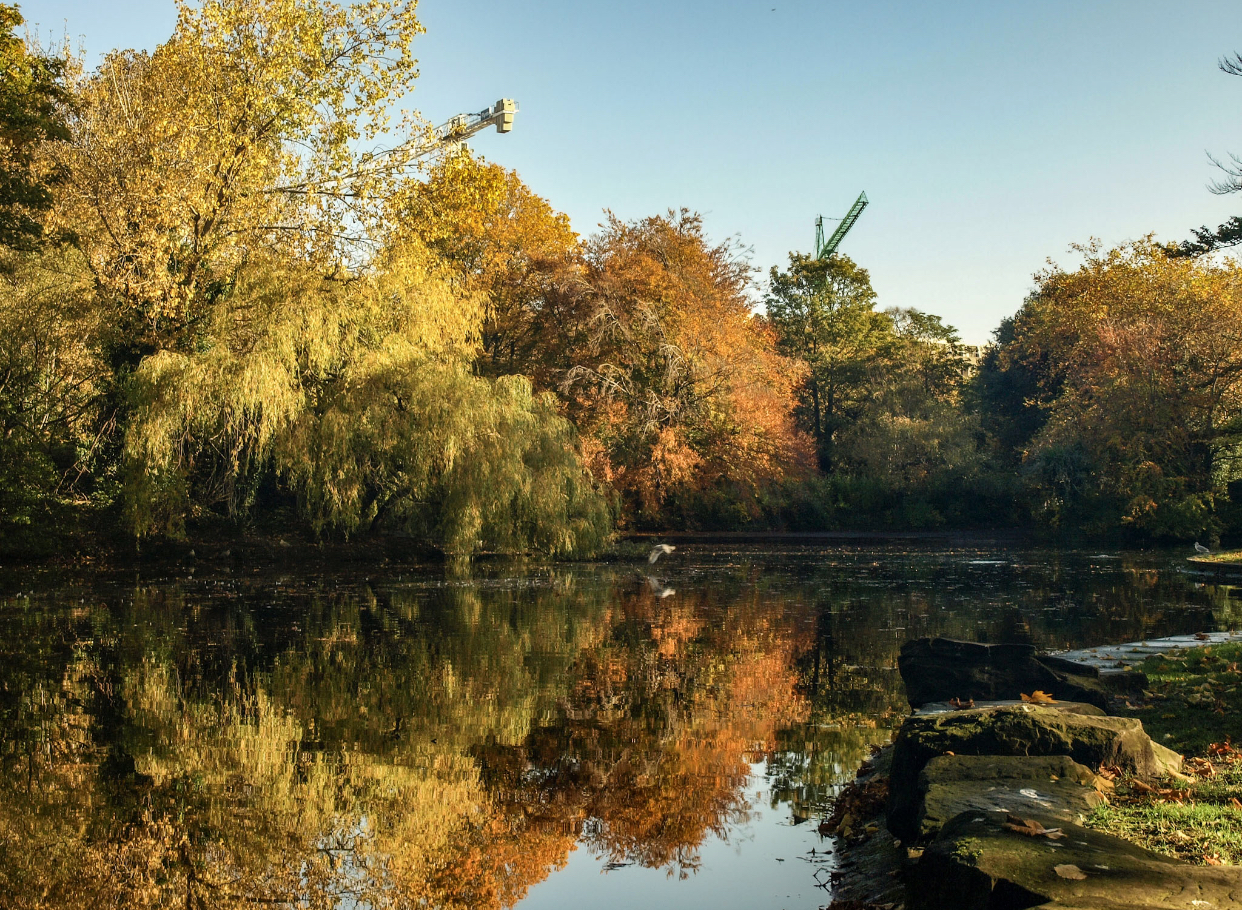
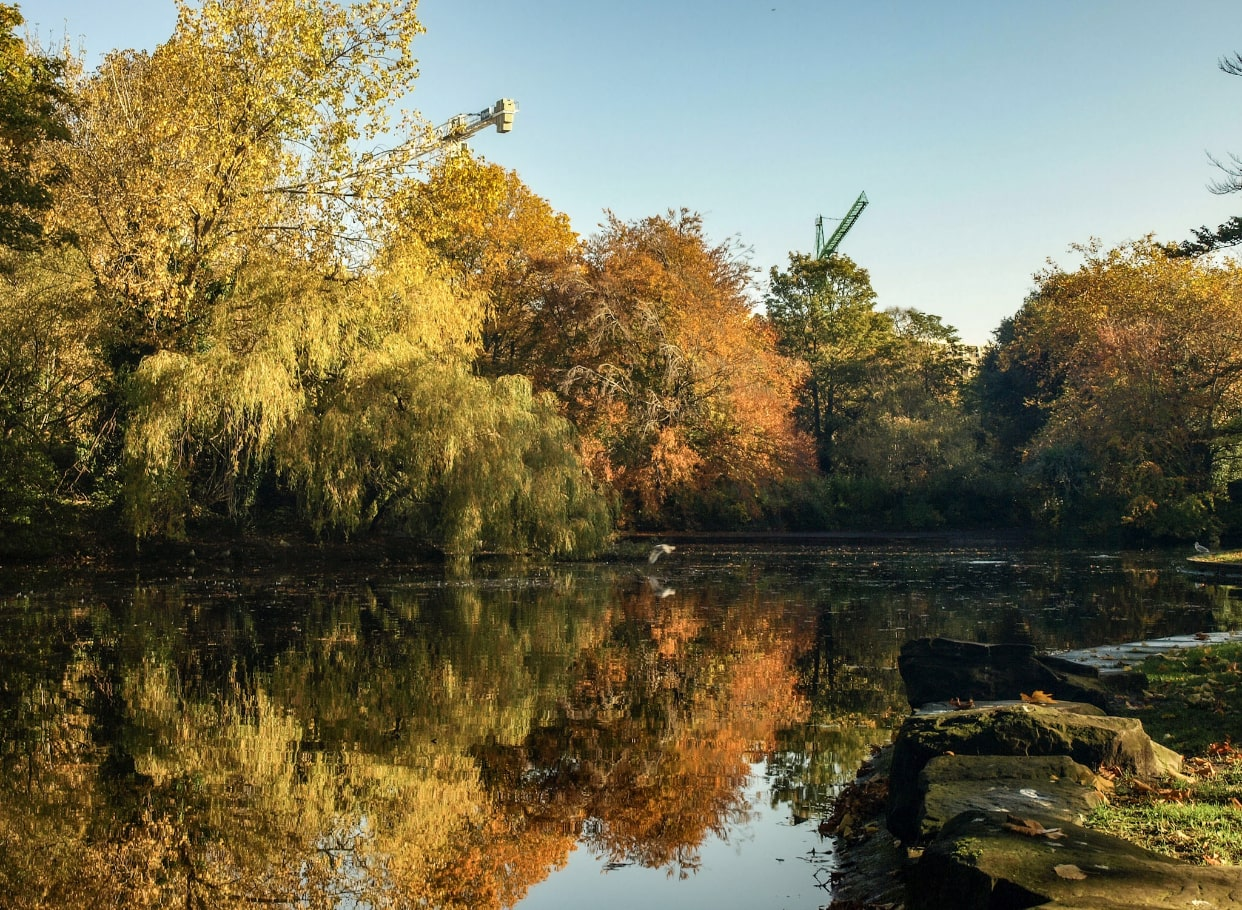
Compressed all images and re-uploaded into site

diff --git a/photography.html b/photography.html
@@ -45,35 +45,35 @@
     <section id="black1">
         <div class="row1">
             <div class="column1">
-              <img src="assets/css/images/photos/B&W-mountain-top-min (1).jpeg" alt="B&W moutain top">
-              <img src="assets/css/images/photos/Department-of-the-taoiseach.JPG" alt="Department of the taoiseach building">
+              <img src="assets/css/images/photos/B&W-mountain-top.jpg" alt="B&W moutain top">
+              <img src="assets/css/images/photos/Department-of-the-taoiseach.jpg" alt="Department of the taoiseach building">
               <img src="assets/css/images/photos/letterfrank.jpg" alt="Beautiful sky in letterfrank">
-              <img src="assets/css/images/photos/St.marys.JPG" alt="St.marys">
+              <img src="assets/css/images/photos/St.marys.jpg" alt="St.marys">
               <img src="assets/css/images/photos/Park-color.jpg" alt="Autmun days in the park">
-              <img src="assets/css/images/photos/water-front-view.JPG" alt="water-front-view">
+              <img src="assets/css/images/photos/water-front-view.jpg" alt="water-front-view">
             </div>
             <div class="column1">
               <img src="assets/css/images/photos/Hanover-Quay.jpg" alt="Hanover-Quay">
-              <img src="assets/css/images/photos/Heineken-2.JPG" alt="heinken bottle">
+              <img src="assets/css/images/photos/Heineken-2.jpg" alt="heinken bottle">
               <img src="assets/css/images/photos/alliance-building.jpg" alt="alliance-building">
-              <img src="assets/css/images/photos/Industrial-3.JPG" alt="Industrial photography">
-              <img src="assets/css/images/photos/Tiknock.JPG" alt="Tiknock moutain view">
-              <img src="assets/css/images/photos/NI-Cow.jpeg" alt="Northen Ireland NI-Cow">
+              <img src="assets/css/images/photos/Industrial-3.jpg" alt="Industrial photography">
+              <img src="assets/css/images/photos/Tiknock.jpg" alt="Tiknock moutain view">
+              <img src="assets/css/images/photos/NI-Cow.jpg" alt="Northen Ireland NI-Cow">
             </div>
             <div class="column1">
-              <img src="assets/css/images/photos/NI-0.jpeg" alt="Northen Ireland">
-              <img src="assets/css/images/photos/Port-2.JPG" alt="A different view">
-              <img src="assets/css/images/photos/NI-1.jpeg" alt="Northen Ireland 1">
-              <img src="assets/css/images/photos/NI-2.jpeg" alt="Northen Ireland 2">
-              <img src="assets/css/images/photos/NI-3.jpeg" alt="Northen Ireland 3">
-              <img src="assets/css/images/photos/B&W-park2.JPG" alt="Black & white park">
+              <img src="assets/css/images/photos/NI-0.jpg" alt="Northen Ireland">
+              <img src="assets/css/images/photos/Port2.jpg" alt="A different view">
+              <img src="assets/css/images/photos/NI-1.jpg" alt="Northen Ireland 1">
+              <img src="assets/css/images/photos/NI-2.jpg" alt="Northen Ireland 2">
+              <img src="assets/css/images/photos/NI-3.jpg" alt="Northen Ireland 3">
+              <img src="assets/css/images/photos/B&W-park2.jpg" alt="Black & white park">
             </div>
             <div class="column1">
-               <img src="assets/css/images/photos/Natterjack-Ice.JPG" alt="Natterjack on ice">
-               <img src="assets/css/images/photos/Guinness.JPG" alt="Guinness doors">
+               <img src="assets/css/images/photos/Natterjack-Ice.jpg" alt="Natterjack on ice">
+               <img src="assets/css/images/photos/Guinness.jpg" alt="Guinness doors">
                <img src="assets/css/images/photos/River-bank.jpg" alt="River-bank">
                <img src="assets/css/images/photos/River-side.jpg" alt="RIver side">
-               <img src="assets/css/images/photos/B&W-entrance.JPG" alt="Black & white entrance">
+               <img src="assets/css/images/photos/B&W-entrance.jpg" alt="Black & white entrance">
                <img src="assets/css/images/photos/google:alliance.jpg" alt="Google alliance">
             </div>
         </div>

diff --git a/assets/css/style.css b/assets/css/style.css
@@ -131,7 +131,7 @@ footer {
     background-color: hsla(0, 1%, 42%, 0.979);
     padding: 20px;
     color: white;
-    margin-top: -375px;
+    margin-top: -100px;
     margin-bottom: 20px;
     margin-right: 75px;
     width: 40%;

diff --git a/README.md b/README.md
@@ -1,4 +1,4 @@
-![PNS logo](httpAs://assets/css/images.pns-logo.png)
+![PNS logo](https://assets/css/images.pns-logo.png)
 
 PicNSip Photogrpahy Portfolio is a site that shows off my photography skills. The site is a portfoloio of all my work throughout the year during the panedmic. I only started studying photography during the covid panedmic but it has always been an interest of mine. Photography helped me get through that the panedmic. I had to go out and explore & see things through a camera lens. 
 
@@ -16,6 +16,7 @@ This featured is on all four pages, the naviagation bar includes links logo, Hom
 
 (screen shot of navigation bar)
 
+
 Home page
 
 The home page only inlcudes one main photo, this photo acts as a hero image. This photo sits on a black back ground which makes the photo stand out because it is a Black & White photo. I am hoping users will want to see more after just visiting the home page. Keeping it very minimalist in style. 
@@ -28,6 +29,7 @@ The Footer
 
 The footer section includes links to the relevant social media sites for PicNSnip. The links will open to a new tab to allow easy navigation for the user.
 The footer also inclubes a video link icon and a signature. The video link shows my fun side in life, capturing moments in time when I dont have a camera. 
+
 
 The footer is valuable to the user as it encourages them to keep connected via social media
 
